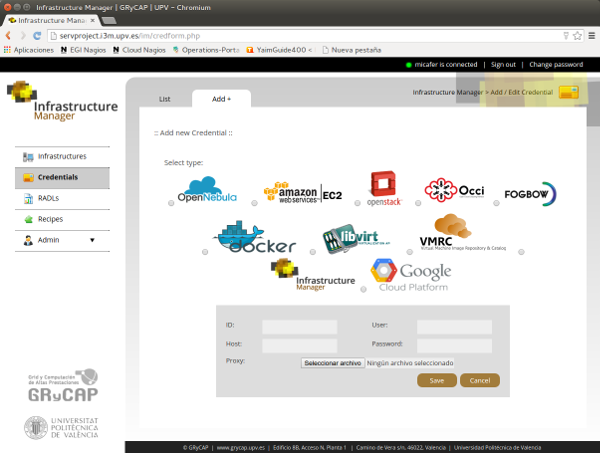
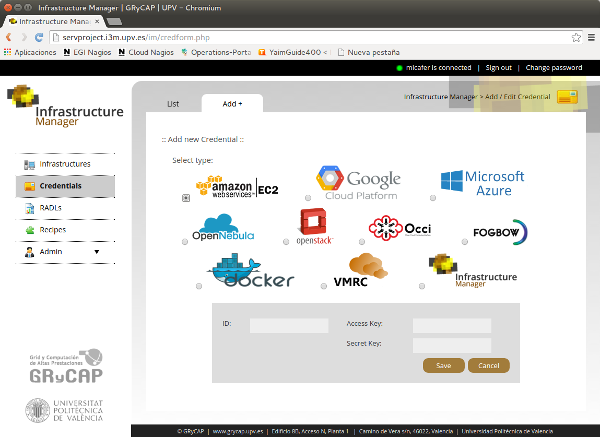
Update de documentatio and version to 1.2.1

Changed region(s): [[0.0, 0.0, 1.0, 0.8924], [0.18, 0.9519, 1.0, 1.0], [0.03, 0.8032, 0.18, 0.9817]]

diff --git a/credform.php b/credform.php
@@ -625,7 +625,13 @@
                                             Server Cert:
                                         </th>
                                         <td colspan="3">
-                                           <input type="file" name=""certificate"">
+                                           <input type="file" name="certificate">
+                                           <?php
+                                           if (strlen(trim($certificate)) > 0) {
+                                           	echo "<textarea id='certificate_value' name='certificate_value' style='display:none;'>" . $certificate . "</textarea>";
+                                           	echo "<a class='download' href='javascript:download(\certificate_value\", \"cert.pem\");'>Download</a>";
+                                           }
+                                           ?>
                                          </td>
 										<th align="left">
                                         </th>

diff --git a/doc/source/web.rst b/doc/source/web.rst
@@ -81,34 +81,14 @@ diferent Cloud providers.
 
    Fig 2. List of credentials.
 
-:ref:`Fig. 3 <figure_cred_add>` shows the form to add or edit the user credentials. The user must
-select the credentials type using the selectors with the corresponding images type. Then he must
-provide the needed data to access each Cloud provider.   
+:ref:`Fig. 3 <figure_cred_add>` shows the form to add or edit the user credentials. Initially the user must
+select the credentials type using the selectors with the corresponding images type. Then the specific form
+for the Cloud provider selected will be shown, where the user must fill the needed fields.   
 
 .. _figure_cred_add:   
 .. figure:: images/creds_add.png
 
    Fig 2. Add new credential.
-
-Fields needed to access each Cloud provider:   
-
-* ``username`` indicates the user name associated to the credential. In EC2 and
-  OpenStack it refers to the *Access Key ID*.
-
-* ``password`` indicates the password associated to the credential. In EC2 and
-  OpenStack it refers to the *Secret Acess Key*.
-
-* ``host`` indicates the address of the access point to the cloud provider.
-  This field is not used in IM, EC2 and GCE credentials.
-  
-* ``proxy`` indicates the proxy file associated to the credential.
-  Currently this field is only used in the OCCI plugin
-  
-* ``project`` indicates the project name associated to the credential.
-  This field is only used in the GCE plugin
-
-* ``id`` associates an identifier to the credential. The identifier should be
-  used as the label in the *deploy* section in the RADL.
 
 RADLs
 ^^^^^
@@ -167,7 +147,8 @@ In this form the user will specify the RADL to add resources to the infrastructu
 In the VM information page (:ref:`Fig. 8 <figure_vm_info>`) the user can see all the information about the VM.
 In the top of the page the state, the cloud provider where it is deployed and the available IPs are shown.
 The rest of RADL fields are shown below. In this section the user can look up for the credentials needed to access the VM
-(username, password or private_key). 
+(username, password or private_key). In case of the private_key a "download" button will appear enabling the user to
+download the key to a file to acccess the node.
 
 .. _figure_vm_info: 
 .. figure:: images/vm_info.png
